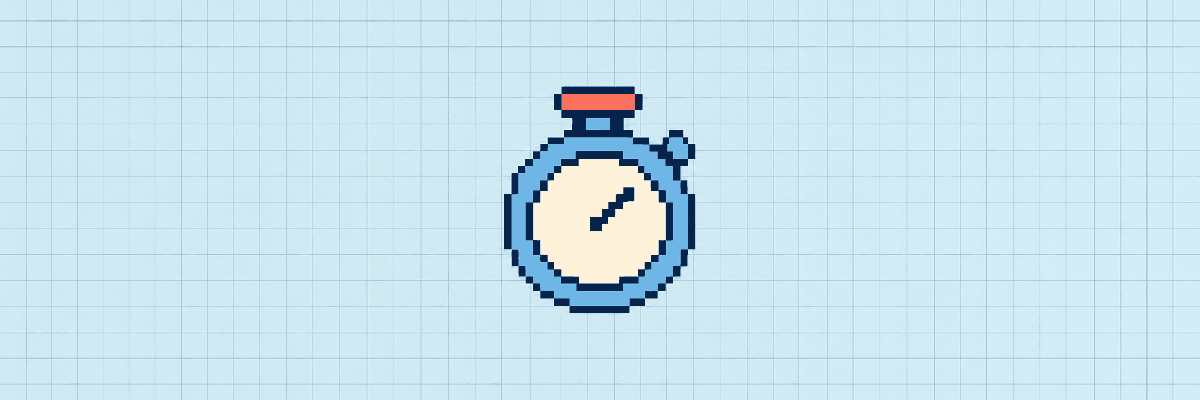
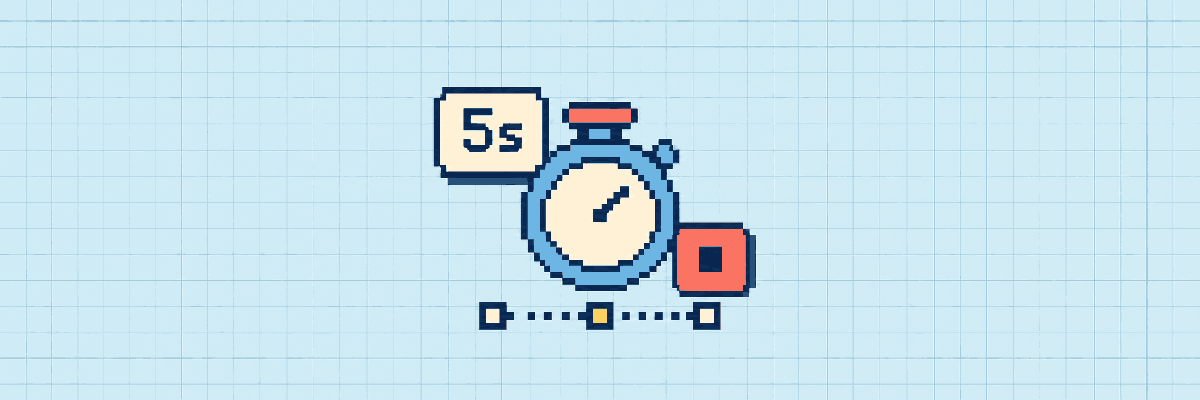
Enrich Time Sense card art and enlarge five homepage illustrations

Changed region(s): [[0.3392, 0.21, 0.6475, 0.84]]

diff --git a/index.html b/index.html
@@ -1,8 +1,8 @@
 <!doctype html>
-<html lang="en-AU"><head><meta charset="utf-8"><meta name="viewport" content="width=device-width,initial-scale=1"><meta name="theme-color" content="#f4eddc"><title>Break Room — Daily games</title><link rel="stylesheet" href="menu.css"><script defer src="daily-clock.js"></script><link rel="stylesheet" href="menu-brand.css"><link rel="icon" href="assets/break-room-icon.svg" type="image/svg+xml"><link rel="stylesheet" href="accounts.css"><script defer src="assets/vendor/supabase.js"></script><script defer src="account-config.js"></script><script defer src="pack-model.js?v=launch-20261023"></script><script defer src="prior-model.js?v=launch-20261023"></script><script defer src="laser-model.js?v=launch-20261023"></script><script defer src="alibi-model.js?v=playtest-20261023"></script><script src="bouncer-model.js?v=launch-20261023"></script><script src="inner-clock-model.js"></script><script src="hidden-gem-model.js"></script><script defer src="cloud-saves.js?v=shift-work-20261025"></script><script defer src="accounts.js?v=time-sense-20261025b"></script><link rel="stylesheet" href="legal.css"><script src="time-drop-model.js"></script><script src="clue-ladder-model.js"></script><script src="seating-chart-model.js"></script><script src="shift-work-model.js?v=shift-work-20261025"></script><link rel="stylesheet" href="card-art.css?v=denser-20261026"></head>
+<html lang="en-AU"><head><meta charset="utf-8"><meta name="viewport" content="width=device-width,initial-scale=1"><meta name="theme-color" content="#f4eddc"><title>Break Room — Daily games</title><link rel="stylesheet" href="menu.css"><script defer src="daily-clock.js"></script><link rel="stylesheet" href="menu-brand.css"><link rel="icon" href="assets/break-room-icon.svg" type="image/svg+xml"><link rel="stylesheet" href="accounts.css"><script defer src="assets/vendor/supabase.js"></script><script defer src="account-config.js"></script><script defer src="pack-model.js?v=launch-20261023"></script><script defer src="prior-model.js?v=launch-20261023"></script><script defer src="laser-model.js?v=launch-20261023"></script><script defer src="alibi-model.js?v=playtest-20261023"></script><script src="bouncer-model.js?v=launch-20261023"></script><script src="inner-clock-model.js"></script><script src="hidden-gem-model.js"></script><script defer src="cloud-saves.js?v=shift-work-20261025"></script><script defer src="accounts.js?v=time-sense-20261025b"></script><link rel="stylesheet" href="legal.css"><script src="time-drop-model.js"></script><script src="clue-ladder-model.js"></script><script src="seating-chart-model.js"></script><script src="shift-work-model.js?v=shift-work-20261025"></script><link rel="stylesheet" href="card-art.css?v=fuller-scenes-20261026"></head>
 <body><div class="site-frame"><header class="topbar"><nav class="main-nav" aria-label="Main navigation"><a href="index.html" aria-current="page">Home</a><a href="friends.html">Friends</a><a href="profile.html">Profile</a></nav><a class="brand" href="index.html" aria-label="Break Room home"><span class="break-mark" aria-hidden="true"><i></i><i></i><i></i><i></i></span><span>BREAK<small>ROOM</small></span></a><div class="account"><a class="login" href="login.html">Log in</a><a class="avatar" href="profile.html" aria-label="Guest profile">?</a></div></header>
 <main><section class="menu-intro" aria-labelledby="menu-title"><div><p class="kicker">A DAILY HABIT FOR CURIOUS MINDS</p><h1 id="menu-title">Pick a game.<em>Make it count.</em></h1><p class="lede">A little knowledge. A good guess. A fresh challenge every day. Find your favourite and give it a go.</p></div><aside class="reset-panel" aria-label="Universal daily reset"><div class="reset-label">NEXT DAILY RESET <span class="clock-square" aria-hidden="true"></span></div><strong id="daily-reset-countdown" data-daily-countdown role="timer" aria-label="Time until the next daily reset" aria-live="off">--:--:--</strong><div class="reset-rule" aria-hidden="true"><span></span></div><p>Same time. Every game.<br>Midnight Sydney time.</p></aside></section>
-<section aria-labelledby="daily-games"><div class="section-head"><h2 id="daily-games">The game shelf.</h2><p>10 DAILY GAMES</p></div><div class="game-grid"><article class="game-card" style="--art:#f6beb7"><div class="game-art has-card-art"><img class="game-card-image" data-art="laser" src="assets/cards/laser-pixel.webp?v=full-bleed-20261026" alt="" aria-hidden="true" width="1200" height="400" style="--art-offset:-0.041250" decoding="async"></div><div class="card-content"><div class="card-heading"><h3>Laser</h3><span class="card-number">/01</span></div><p class="card-description">One beam. Find your angle.</p><p class="card-meta">4 DAILY BOARDS / NO TIMER</p><a class="play-button" href="games/laser/index.html">OPEN GAME<span aria-hidden="true">→</span></a></div></article><article class="game-card" style="--art:#f9e2a7"><div class="game-art has-card-art"><img class="game-card-image" data-art="time-drop" src="assets/cards/time-drop-pixel.webp?v=full-bleed-20261026" alt="" aria-hidden="true" width="1200" height="400" style="--art-offset:-0.001250" decoding="async"></div><div class="card-content"><div class="card-heading"><h3>Time Drop</h3><span class="card-number">/02</span></div><p class="card-description">One event. Your best guess at its year.</p><p class="card-meta">5 DAILY EVENTS / NO TIMER</p><a class="play-button" href="games/time-drop/index.html">OPEN GAME<span aria-hidden="true">→</span></a></div></article><article class="game-card" style="--art:#f6d2a0"><div class="game-art has-card-art"><img class="game-card-image" data-art="clue-ladder" src="assets/cards/clue-ladder-pixel.webp?v=denser-20261026" alt="" aria-hidden="true" width="1200" height="400" style="--art-offset:0.000000" decoding="async"></div><div class="card-content"><div class="card-heading"><h3>Clue Ladder</h3><span class="card-number">/03</span></div><p class="card-description">One answer. Five clues. How soon can you name it?</p><p class="card-meta">5 DAILY PUZZLES / NO TIMER</p><a class="play-button" href="games/clue-ladder/index.html">OPEN GAME<span aria-hidden="true">→</span></a></div></article><article class="game-card" style="--art:#dce5ca"><div class="game-art has-card-art"><img class="game-card-image" data-art="seating-chart" src="assets/cards/seating-chart-pixel.webp?v=full-bleed-20261026" alt="" aria-hidden="true" width="1200" height="403" style="--art-offset:-0.001241" decoding="async" loading="lazy"></div><div class="card-content"><div class="card-heading"><h3>Seating Chart</h3><span class="card-number">/04</span></div><p class="card-description">Seat the guests. Keep the drama to a minimum.</p><p class="card-meta">5 DAILY TABLES / NO TIMER</p><a class="play-button" href="games/seating-chart/index.html">OPEN GAME<span aria-hidden="true">→</span></a></div></article><article class="game-card" style="--art:#cbdab3"><div class="game-art has-card-art"><img class="game-card-image" data-art="shift-work" src="assets/cards/shift-work-pixel.webp?v=full-bleed-20261026" alt="" aria-hidden="true" width="1200" height="400" style="--art-offset:0.042500" decoding="async" loading="lazy"></div><div class="card-content"><div class="card-heading"><h3>Desk Jam</h3><span class="card-number">/05</span></div><p class="card-description">Slide the furniture. Clear a path. Clock off.</p><p class="card-meta">3 DAILY BOARDS / NO TIMER</p><a class="play-button" href="games/shift-work/index.html" aria-label="Play Desk Jam">OPEN GAME<span aria-hidden="true">→</span></a></div></article><article class="game-card" style="--art:#d6e5e7"><div class="game-art has-card-art"><img class="game-card-image" data-art="hidden-gem" src="assets/cards/hidden-gem-pixel.webp?v=full-bleed-20261026" alt="" aria-hidden="true" width="1200" height="400" style="--art-offset:0.010000" decoding="async" loading="lazy"></div><div class="card-content"><div class="card-heading"><h3>Sleeper</h3><span class="card-number">/06</span></div><p class="card-description">Quiet answers. Big points. Think off the radar.</p><p class="card-meta">5 DAILY QUESTIONS / 30 SECONDS EACH</p><a class="play-button" href="games/hidden-gem/index.html" aria-label="Play Sleeper">OPEN GAME<span aria-hidden="true">→</span></a></div></article><article class="game-card " style="--art:#f9e2a7"><div class="game-art has-card-art"><img class="game-card-image" data-art="stack-up" src="assets/cards/stack-up-pixel.webp?v=full-bleed-20261026" alt="" aria-hidden="true" width="1200" height="400" style="--art-offset:0.000000" decoding="async" loading="lazy"></div><div class="card-content"><div class="card-heading"><h3>Stack Up</h3><span class="card-number">/07</span></div><p class="card-description">Put five familiar things in the right order. Then beat the clock.</p><p class="card-meta">DAILY + INFINITE</p><a class="play-button" href="games/stack-up/index.html">OPEN GAME<span aria-hidden="true">→</span></a></div></article><article class="game-card" style="--art:#e1d1ec"><div class="game-art has-card-art"><img class="game-card-image" data-art="pack" src="assets/cards/pack-pixel.webp?v=full-bleed-20261026" alt="" aria-hidden="true" width="1200" height="400" style="--art-offset:0.000000" decoding="async" loading="lazy"></div><div class="card-content"><div class="card-heading"><h3>Pack</h3><span class="card-number">/08</span></div><p class="card-description">A small bag. A big decision. Make every gram count.</p><p class="card-meta">3 DAILY BAGS / NO TIMER</p><a class="play-button" href="games/pack/index.html">OPEN GAME<span aria-hidden="true">→</span></a></div></article><article class="game-card " style="--art:#e4f2f4"><div class="game-art has-card-art"><img class="game-card-image" data-art="lowball" src="assets/cards/lowball-pixel.webp?v=full-bleed-20261026" alt="" aria-hidden="true" width="1200" height="400" style="--art-offset:0.002500" decoding="async" loading="lazy"></div><div class="card-content"><div class="card-heading"><h3>Lowball</h3><span class="card-number">/09</span></div><p class="card-description">Guess the price of everyday items. How close can you get?</p><p class="card-meta">4 DAILY ITEMS / 0–100 PTS</p><a class="play-button" href="games/lowball/index.html">OPEN GAME<span aria-hidden="true">→</span></a></div></article><article class="game-card" style="--art:#d6eaf0"><div class="game-art has-card-art"><img class="game-card-image" data-art="inner-clock" src="assets/cards/inner-clock-pixel.webp?v=full-bleed-20261026" alt="" aria-hidden="true" width="1200" height="400" style="--art-offset:-0.001250" decoding="async" loading="lazy"></div><div class="card-content"><div class="card-heading"><h3>Time Sense</h3><span class="card-number">/10</span></div><p class="card-description">No ticks. No clues. Just your sense of time.</p><p class="card-meta">5 DAILY TARGETS / BLIND TIMING</p><a class="play-button" href="games/inner-clock/index.html" aria-label="Play Time Sense">OPEN GAME<span aria-hidden="true">→</span></a></div></article></div></section></main>
+<section aria-labelledby="daily-games"><div class="section-head"><h2 id="daily-games">The game shelf.</h2><p>10 DAILY GAMES</p></div><div class="game-grid"><article class="game-card" style="--art:#f6beb7"><div class="game-art has-card-art"><img class="game-card-image" data-art="laser" src="assets/cards/laser-pixel.webp?v=full-bleed-20261026" alt="" aria-hidden="true" width="1200" height="400" style="--art-offset:-0.041250" decoding="async"></div><div class="card-content"><div class="card-heading"><h3>Laser</h3><span class="card-number">/01</span></div><p class="card-description">One beam. Find your angle.</p><p class="card-meta">4 DAILY BOARDS / NO TIMER</p><a class="play-button" href="games/laser/index.html">OPEN GAME<span aria-hidden="true">→</span></a></div></article><article class="game-card" style="--art:#f9e2a7"><div class="game-art has-card-art"><img class="game-card-image" data-art="time-drop" src="assets/cards/time-drop-pixel.webp?v=full-bleed-20261026" alt="" aria-hidden="true" width="1200" height="400" style="--art-offset:-0.001250" decoding="async"></div><div class="card-content"><div class="card-heading"><h3>Time Drop</h3><span class="card-number">/02</span></div><p class="card-description">One event. Your best guess at its year.</p><p class="card-meta">5 DAILY EVENTS / NO TIMER</p><a class="play-button" href="games/time-drop/index.html">OPEN GAME<span aria-hidden="true">→</span></a></div></article><article class="game-card" style="--art:#f6d2a0"><div class="game-art has-card-art"><img class="game-card-image" data-art="clue-ladder" src="assets/cards/clue-ladder-pixel.webp?v=denser-20261026" alt="" aria-hidden="true" width="1200" height="400" style="--art-offset:0.000000" decoding="async"></div><div class="card-content"><div class="card-heading"><h3>Clue Ladder</h3><span class="card-number">/03</span></div><p class="card-description">One answer. Five clues. How soon can you name it?</p><p class="card-meta">5 DAILY PUZZLES / NO TIMER</p><a class="play-button" href="games/clue-ladder/index.html">OPEN GAME<span aria-hidden="true">→</span></a></div></article><article class="game-card" style="--art:#dce5ca"><div class="game-art has-card-art"><img class="game-card-image" data-art="seating-chart" src="assets/cards/seating-chart-pixel.webp?v=full-bleed-20261026" alt="" aria-hidden="true" width="1200" height="403" style="--art-offset:-0.001241" decoding="async" loading="lazy"></div><div class="card-content"><div class="card-heading"><h3>Seating Chart</h3><span class="card-number">/04</span></div><p class="card-description">Seat the guests. Keep the drama to a minimum.</p><p class="card-meta">5 DAILY TABLES / NO TIMER</p><a class="play-button" href="games/seating-chart/index.html">OPEN GAME<span aria-hidden="true">→</span></a></div></article><article class="game-card" style="--art:#cbdab3"><div class="game-art has-card-art"><img class="game-card-image" data-art="shift-work" src="assets/cards/shift-work-pixel.webp?v=full-bleed-20261026" alt="" aria-hidden="true" width="1200" height="400" style="--art-offset:0.042500" decoding="async" loading="lazy"></div><div class="card-content"><div class="card-heading"><h3>Desk Jam</h3><span class="card-number">/05</span></div><p class="card-description">Slide the furniture. Clear a path. Clock off.</p><p class="card-meta">3 DAILY BOARDS / NO TIMER</p><a class="play-button" href="games/shift-work/index.html" aria-label="Play Desk Jam">OPEN GAME<span aria-hidden="true">→</span></a></div></article><article class="game-card" style="--art:#d6e5e7"><div class="game-art has-card-art"><img class="game-card-image" data-art="hidden-gem" src="assets/cards/hidden-gem-pixel.webp?v=full-bleed-20261026" alt="" aria-hidden="true" width="1200" height="400" style="--art-offset:0.010000" decoding="async" loading="lazy"></div><div class="card-content"><div class="card-heading"><h3>Sleeper</h3><span class="card-number">/06</span></div><p class="card-description">Quiet answers. Big points. Think off the radar.</p><p class="card-meta">5 DAILY QUESTIONS / 30 SECONDS EACH</p><a class="play-button" href="games/hidden-gem/index.html" aria-label="Play Sleeper">OPEN GAME<span aria-hidden="true">→</span></a></div></article><article class="game-card " style="--art:#f9e2a7"><div class="game-art has-card-art"><img class="game-card-image" data-art="stack-up" src="assets/cards/stack-up-pixel.webp?v=full-bleed-20261026" alt="" aria-hidden="true" width="1200" height="400" style="--art-offset:0.000000" decoding="async" loading="lazy"></div><div class="card-content"><div class="card-heading"><h3>Stack Up</h3><span class="card-number">/07</span></div><p class="card-description">Put five familiar things in the right order. Then beat the clock.</p><p class="card-meta">DAILY + INFINITE</p><a class="play-button" href="games/stack-up/index.html">OPEN GAME<span aria-hidden="true">→</span></a></div></article><article class="game-card" style="--art:#e1d1ec"><div class="game-art has-card-art"><img class="game-card-image" data-art="pack" src="assets/cards/pack-pixel.webp?v=full-bleed-20261026" alt="" aria-hidden="true" width="1200" height="400" style="--art-offset:0.000000" decoding="async" loading="lazy"></div><div class="card-content"><div class="card-heading"><h3>Pack</h3><span class="card-number">/08</span></div><p class="card-description">A small bag. A big decision. Make every gram count.</p><p class="card-meta">3 DAILY BAGS / NO TIMER</p><a class="play-button" href="games/pack/index.html">OPEN GAME<span aria-hidden="true">→</span></a></div></article><article class="game-card " style="--art:#e4f2f4"><div class="game-art has-card-art"><img class="game-card-image" data-art="lowball" src="assets/cards/lowball-pixel.webp?v=full-bleed-20261026" alt="" aria-hidden="true" width="1200" height="400" style="--art-offset:0.002500" decoding="async" loading="lazy"></div><div class="card-content"><div class="card-heading"><h3>Lowball</h3><span class="card-number">/09</span></div><p class="card-description">Guess the price of everyday items. How close can you get?</p><p class="card-meta">4 DAILY ITEMS / 0–100 PTS</p><a class="play-button" href="games/lowball/index.html">OPEN GAME<span aria-hidden="true">→</span></a></div></article><article class="game-card" style="--art:#d6eaf0"><div class="game-art has-card-art"><img class="game-card-image" data-art="inner-clock" src="assets/cards/inner-clock-pixel.webp?v=timing-scene-20261026" alt="" aria-hidden="true" width="1200" height="400" style="--art-offset:-0.012500" decoding="async" loading="lazy"></div><div class="card-content"><div class="card-heading"><h3>Time Sense</h3><span class="card-number">/10</span></div><p class="card-description">No ticks. No clues. Just your sense of time.</p><p class="card-meta">5 DAILY TARGETS / BLIND TIMING</p><a class="play-button" href="games/inner-clock/index.html" aria-label="Play Time Sense">OPEN GAME<span aria-hidden="true">→</span></a></div></article></div></section></main>
 <!-- shared-legal-footer:start -->
 <footer class="br-site-footer"><div class="br-footer-inner"><p class="br-footer-note">BREAK ROOM · A LITTLE BREAK. A FEW GOOD GAMES.</p><nav class="br-footer-nav" aria-label="Footer"><a href="index.html">All games</a><a href="privacy.html">Privacy</a><a href="terms.html">Terms</a><a href="contact.html">Contact &amp; data help</a></nav></div></footer>
 <!-- shared-legal-footer:end --></div></body></html>

diff --git a/card-art.css b/card-art.css
@@ -5,11 +5,15 @@
 @media(max-width:1050px){.game-art.has-card-art{--art-content-height:153px}}
 @media(max-width:540px){.game-art.has-card-art{--art-content-height:124px}}
 
-/* Fill the quieter illustrations without changing the card frames. */
+/* Fuller scenes, always clipped to the original artwork frames. */
 .game-card-image[data-art="time-drop"]{transform:scale(1.35)}
-.game-card-image[data-art="hidden-gem"],.game-card-image[data-art="inner-clock"]{transform:scale(1.5)}
+.game-card-image[data-art="hidden-gem"]{transform:scale(1.5)}
+.game-card-image[data-art="inner-clock"]{transform:scale(1.4)}
 .game-card-image[data-art="stack-up"]{transform:scale(1.8)}
+.game-card-image[data-art="laser"],.game-card-image[data-art="seating-chart"],.game-card-image[data-art="shift-work"]{transform:scale(1.25)}
+.game-card-image[data-art="pack"]{transform:scale(1.2)}
+.game-card-image[data-art="lowball"]{transform:scale(1.3)}
 @media(max-width:1050px){.game-card-image[data-art="stack-up"]{transform:scale(1.6)}}
-@media(max-width:540px){.game-card-image[data-art="stack-up"]{transform:scale(1.5)}}
-@media(max-width:420px){.game-card-image[data-art="stack-up"]{transform:scale(1.25)}}
-@media(max-width:360px){.game-card-image[data-art="stack-up"]{transform:scale(1.05)}.game-card-image[data-art="time-drop"]{transform:scale(1.1)}}
+@media(max-width:540px){.game-card-image[data-art="stack-up"]{transform:scale(1.5)}.game-card-image[data-art="inner-clock"]{transform:scale(1.25)}}
+@media(max-width:420px){.game-card-image[data-art="stack-up"]{transform:scale(1.25)}.game-card-image[data-art="shift-work"]{transform:scale(1.05)}}
+@media(max-width:360px){.game-card-image[data-art="stack-up"],.game-card-image[data-art="seating-chart"]{transform:scale(1.05)}.game-card-image[data-art="time-drop"],.game-card-image[data-art="lowball"],.game-card-image[data-art="inner-clock"]{transform:scale(1.1)}.game-card-image[data-art="shift-work"]{transform:none}}

diff --git a/AGENTS.md b/AGENTS.md
@@ -1,3 +1,9 @@
+## Final card illustration refinement — owner direction, 26 October 2026
+
+The owner still found Time Sense too plain and requested slightly larger Pack, Lowball, Laser, Seating Chart and Desk Jam illustrations. Time Sense now combines its pixel stopwatch with a 5s target tile, coral stop control and short timing-marker line. It remains decorative card art; the game rules and blind timing are unchanged.
+
+Enlarge Laser/Seating Chart/Desk Jam by 25%, Pack by 20% and Lowball by 30% at roomy widths. Keep smaller safe scales for the constrained phone cards, especially Desk Jam's wide exit route. Preserve the existing Time Drop, Sleeper, Stack Up and Clue Ladder improvements. All full-width backgrounds and original 172/155/126px card heights remain unchanged. Validate the transformed foreground bounds and navigation at mobile, tablet, desktop and breakpoint widths; no game-session sweep is needed.
+
 ## Fuller artwork in five homepage cards — owner direction, 26 October 2026
 
 The owner found Time Sense, Time Drop, Clue Ladder, Stack Up and Sleeper too sparse after background extension. Enlarge the existing Time Sense/Sleeper motifs by 50%, Time Drop by 35% (10% on the narrowest phones), and Stack Up by up to 80% with smaller responsive scales to retain all five cards. These are presentation transforms inside the existing clipped artwork areas; the original 172/155/126px card heights and full-width backgrounds remain fixed. Other illustrations retain their scale.

diff --git a/BRAND.md b/BRAND.md
@@ -1,3 +1,9 @@
+## Final card illustration refinement — owner direction, 26 October 2026
+
+The owner still found Time Sense too plain and requested slightly larger Pack, Lowball, Laser, Seating Chart and Desk Jam illustrations. Time Sense now combines its pixel stopwatch with a 5s target tile, coral stop control and short timing-marker line. It remains decorative card art; the game rules and blind timing are unchanged.
+
+Enlarge Laser/Seating Chart/Desk Jam by 25%, Pack by 20% and Lowball by 30% at roomy widths. Keep smaller safe scales for the constrained phone cards, especially Desk Jam's wide exit route. Preserve the existing Time Drop, Sleeper, Stack Up and Clue Ladder improvements. All full-width backgrounds and original 172/155/126px card heights remain unchanged. Validate the transformed foreground bounds and navigation at mobile, tablet, desktop and breakpoint widths; no game-session sweep is needed.
+
 ## Fuller artwork in five homepage cards — owner direction, 26 October 2026
 
 The owner found Time Sense, Time Drop, Clue Ladder, Stack Up and Sleeper too sparse after background extension. Enlarge the existing Time Sense/Sleeper motifs by 50%, Time Drop by 35% (10% on the narrowest phones), and Stack Up by up to 80% with smaller responsive scales to retain all five cards. These are presentation transforms inside the existing clipped artwork areas; the original 172/155/126px card heights and full-width backgrounds remain fixed. Other illustrations retain their scale.
